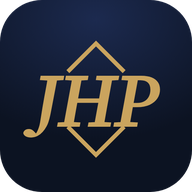
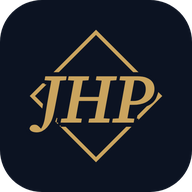
Full diamond JHP monogram with letters crossing its sides
Claude-Session: https://claude.ai/code/session_01TE95R1FHP9sebuNosKEAS4

diff --git a/index.html b/index.html
@@ -69,13 +69,11 @@ p{margin:0}
 .nav.scrolled{background:color-mix(in srgb,var(--ink) 82%,transparent);backdrop-filter:blur(14px);border-color:var(--line)}
 .nav .wrap{display:flex;align-items:center;justify-content:space-between;gap:24px;height:74px}
 .mark{display:flex;align-items:center;gap:12px;text-decoration:none}
-.mark .dia{position:relative;width:78px;height:56px;display:grid;place-items:center;flex:none}
-.mark .dia::before,.mark .dia::after{content:"";position:absolute;left:50%;width:21px;height:21px;margin-left:-10.5px;border:1.5px solid var(--brass);border-right:0;border-bottom:0;transition:transform .5s cubic-bezier(.2,.8,.2,1)}
-.mark .dia::before{top:6px;transform:rotate(45deg)}
-.mark .dia::after{bottom:3px;transform:rotate(225deg)}
-.mark:hover .dia::before{transform:translateY(-3px) rotate(45deg)}
-.mark:hover .dia::after{transform:translateY(3px) rotate(225deg)}
-.mark .dia span{position:relative;font-family:var(--display);font-style:italic;font-weight:600;font-size:2rem;line-height:1;letter-spacing:-.035em;color:var(--brass);transform:translate(-1px,1px)}
+.mark .dia{position:relative;width:84px;height:64px;display:grid;place-items:center;flex:none}
+.mark .dia::before{content:"";position:absolute;left:50%;top:50%;width:44px;height:44px;margin:-22px 0 0 -22px;border:1.5px solid var(--brass);transform:rotate(45deg);transition:transform .7s cubic-bezier(.2,.8,.2,1)}
+.mark:hover .dia::before{transform:rotate(135deg)}
+.mark .dia span{position:relative;font-family:var(--display);font-style:italic;font-weight:600;font-size:2rem;line-height:1;letter-spacing:-.04em;color:var(--brass);transform:translate(-1px,1px);
+  text-shadow:2px 0 var(--ink),-2px 0 var(--ink),0 2px var(--ink),0 -2px var(--ink),2px 2px var(--ink),-2px -2px var(--ink),2px -2px var(--ink),-2px 2px var(--ink)}
 .mark span{font-size:.78rem;letter-spacing:.2em;text-transform:uppercase;line-height:1.3}
 .links{display:flex;gap:30px;list-style:none;margin:0;padding:0}
 .links a{text-decoration:none;font-size:.88rem;letter-spacing:.06em;color:var(--muted);transition:color .25s;position:relative}
